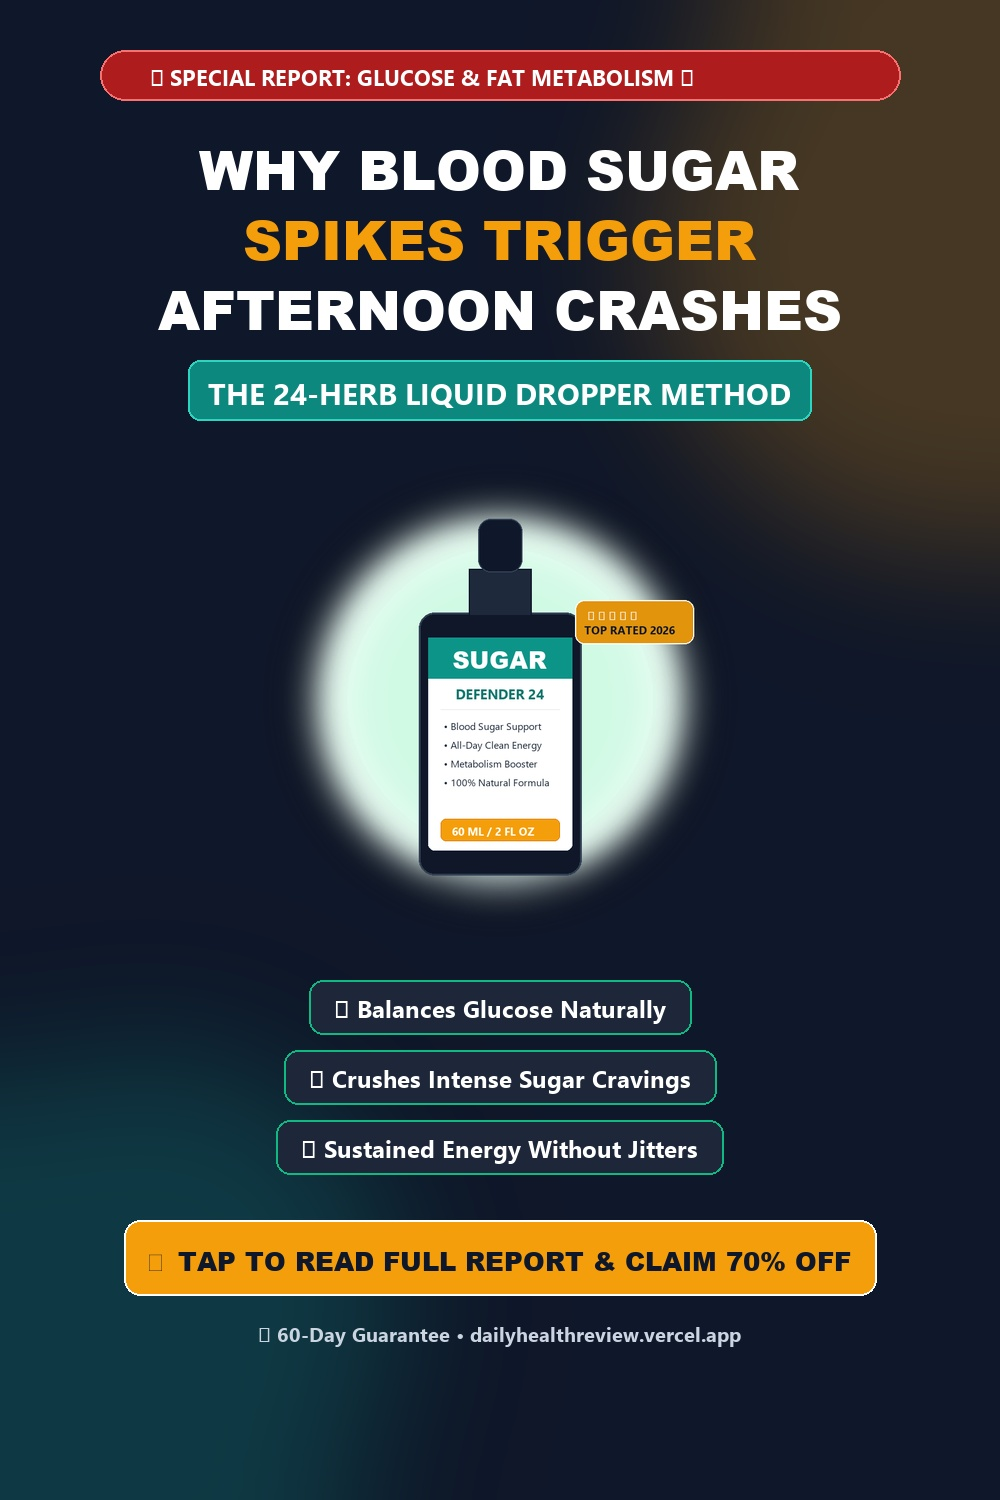
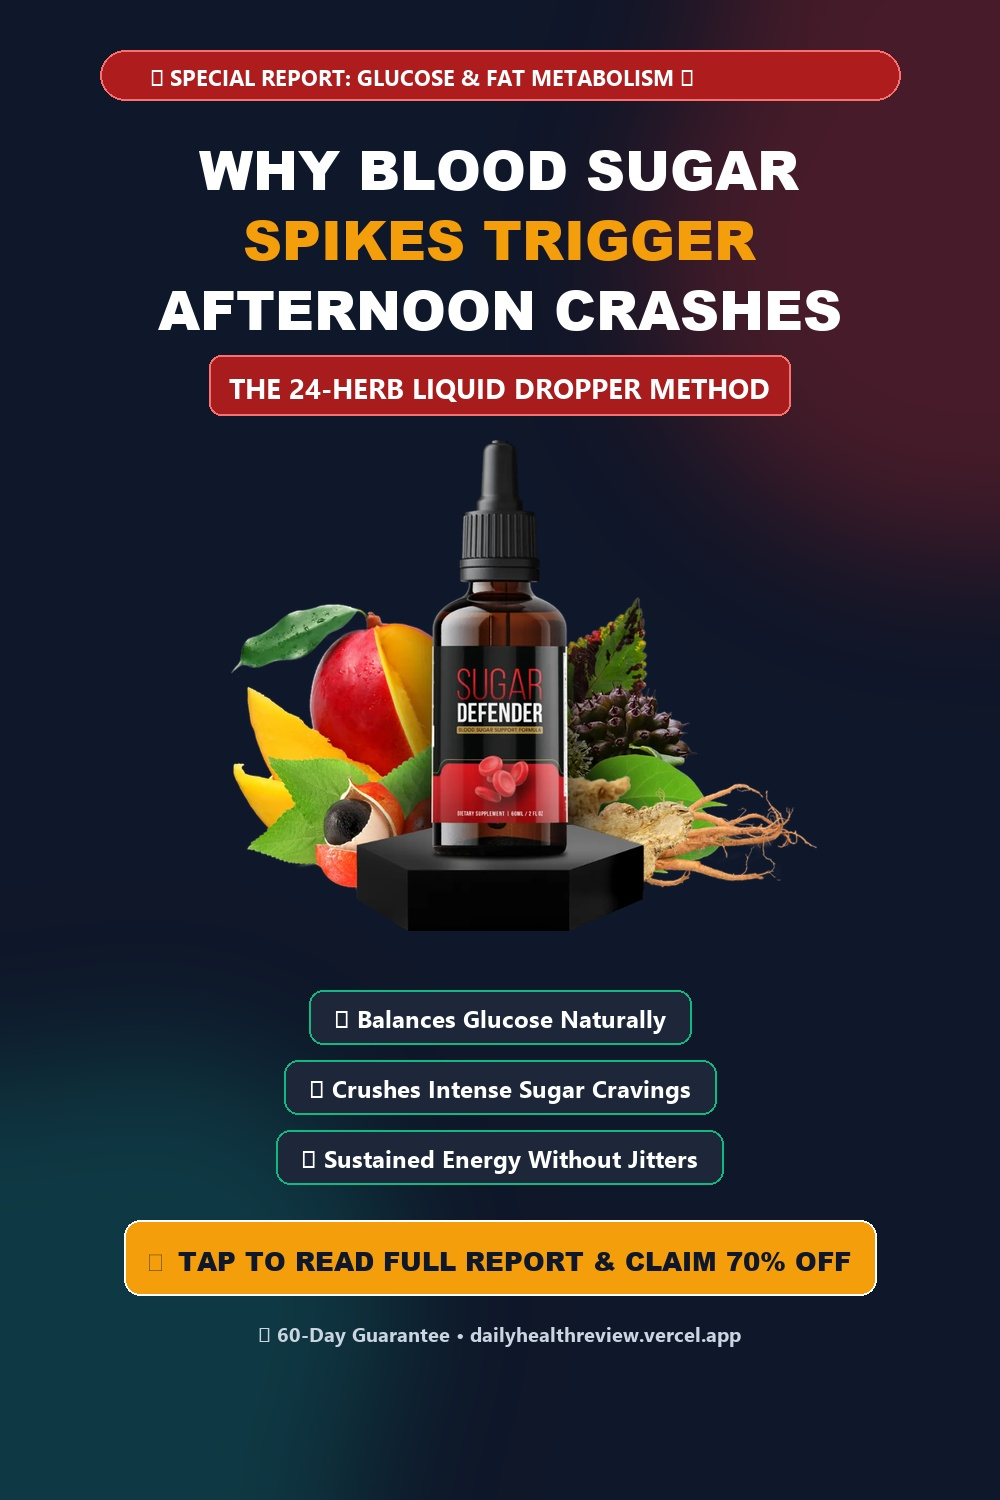
feat: replace with real official Sugar Defender product image and encrypted Hoplink

Changed region(s): [[0.186, 0.0, 1.0, 0.7973]]

diff --git a/articles/sugar-defender-guide.html b/articles/sugar-defender-guide.html
@@ -130,7 +130,7 @@
             </ul>
 
             <!-- BIG Pulsing CTA Button -->
-            <a href="https://hop.clickbank.net/?affiliate=eusimar72&vendor=sugardef" target="_blank" rel="noopener noreferrer" class="btn-pulse inline-block w-full text-center bg-emerald-600 hover:bg-emerald-700 text-white font-extrabold text-lg py-4 px-6 rounded-xl shadow-lg hover:shadow-xl transition transform hover:-translate-y-0.5">
+            <a href="https://1bb1cc1ek8qf8sbh84dll9uk5s.hop.clickbank.net" target="_blank" rel="noopener noreferrer" class="btn-pulse inline-block w-full text-center bg-emerald-600 hover:bg-emerald-700 text-white font-extrabold text-lg py-4 px-6 rounded-xl shadow-lg hover:shadow-xl transition transform hover:-translate-y-0.5">
               👉 Check Official Availability & Claim 70% Off Discount
             </a>
             <p class="text-xs text-slate-500 text-center sm:text-left mt-2 flex items-center gap-1.5 justify-center sm:justify-start">
@@ -240,7 +240,7 @@
           If you want a natural, scientifically backed method to maintain normal glucose levels and reclaim clean, all-day energy, Sugar Defender is an outstanding choice.
         </p>
 
-        <a href="https://hop.clickbank.net/?affiliate=eusimar72&vendor=sugardef" target="_blank" rel="noopener noreferrer" class="btn-pulse inline-block bg-amber-500 hover:bg-amber-400 text-slate-950 font-black text-xl py-4 px-10 rounded-xl shadow-xl transition transform hover:scale-105">
+        <a href="https://1bb1cc1ek8qf8sbh84dll9uk5s.hop.clickbank.net" target="_blank" rel="noopener noreferrer" class="btn-pulse inline-block bg-amber-500 hover:bg-amber-400 text-slate-950 font-black text-xl py-4 px-10 rounded-xl shadow-xl transition transform hover:scale-105">
           👉 Claim Official Sugar Defender Discount (Up to 70% Off Today)
         </a>
         <p class="text-xs text-slate-400 mt-3">
@@ -258,7 +258,7 @@
       <div class="text-xs font-bold text-slate-900">Sugar Defender Special</div>
       <div class="text-[11px] text-emerald-600 font-semibold">Special Discount Active</div>
     </div>
-    <a href="https://hop.clickbank.net/?affiliate=eusimar72&vendor=sugardef" target="_blank" rel="noopener noreferrer" class="bg-emerald-600 text-white font-bold text-sm py-2 px-5 rounded-lg shadow">
+    <a href="https://1bb1cc1ek8qf8sbh84dll9uk5s.hop.clickbank.net" target="_blank" rel="noopener noreferrer" class="bg-emerald-600 text-white font-bold text-sm py-2 px-5 rounded-lg shadow">
       Claim 70% Off →
     </a>
   </div>

diff --git a/sugar-defender-guide/index.html b/sugar-defender-guide/index.html
@@ -130,7 +130,7 @@
             </ul>
 
             <!-- BIG Pulsing CTA Button -->
-            <a href="https://hop.clickbank.net/?affiliate=eusimar72&vendor=sugardef" target="_blank" rel="noopener noreferrer" class="btn-pulse inline-block w-full text-center bg-emerald-600 hover:bg-emerald-700 text-white font-extrabold text-lg py-4 px-6 rounded-xl shadow-lg hover:shadow-xl transition transform hover:-translate-y-0.5">
+            <a href="https://1bb1cc1ek8qf8sbh84dll9uk5s.hop.clickbank.net" target="_blank" rel="noopener noreferrer" class="btn-pulse inline-block w-full text-center bg-emerald-600 hover:bg-emerald-700 text-white font-extrabold text-lg py-4 px-6 rounded-xl shadow-lg hover:shadow-xl transition transform hover:-translate-y-0.5">
               👉 Check Official Availability & Claim 70% Off Discount
             </a>
             <p class="text-xs text-slate-500 text-center sm:text-left mt-2 flex items-center gap-1.5 justify-center sm:justify-start">
@@ -240,7 +240,7 @@
           If you want a natural, scientifically backed method to maintain normal glucose levels and reclaim clean, all-day energy, Sugar Defender is an outstanding choice.
         </p>
 
-        <a href="https://hop.clickbank.net/?affiliate=eusimar72&vendor=sugardef" target="_blank" rel="noopener noreferrer" class="btn-pulse inline-block bg-amber-500 hover:bg-amber-400 text-slate-950 font-black text-xl py-4 px-10 rounded-xl shadow-xl transition transform hover:scale-105">
+        <a href="https://1bb1cc1ek8qf8sbh84dll9uk5s.hop.clickbank.net" target="_blank" rel="noopener noreferrer" class="btn-pulse inline-block bg-amber-500 hover:bg-amber-400 text-slate-950 font-black text-xl py-4 px-10 rounded-xl shadow-xl transition transform hover:scale-105">
           👉 Claim Official Sugar Defender Discount (Up to 70% Off Today)
         </a>
         <p class="text-xs text-slate-400 mt-3">
@@ -258,7 +258,7 @@
       <div class="text-xs font-bold text-slate-900">Sugar Defender Special</div>
       <div class="text-[11px] text-emerald-600 font-semibold">Special Discount Active</div>
     </div>
-    <a href="https://hop.clickbank.net/?affiliate=eusimar72&vendor=sugardef" target="_blank" rel="noopener noreferrer" class="bg-emerald-600 text-white font-bold text-sm py-2 px-5 rounded-lg shadow">
+    <a href="https://1bb1cc1ek8qf8sbh84dll9uk5s.hop.clickbank.net" target="_blank" rel="noopener noreferrer" class="bg-emerald-600 text-white font-bold text-sm py-2 px-5 rounded-lg shadow">
       Claim 70% Off →
     </a>
   </div>
